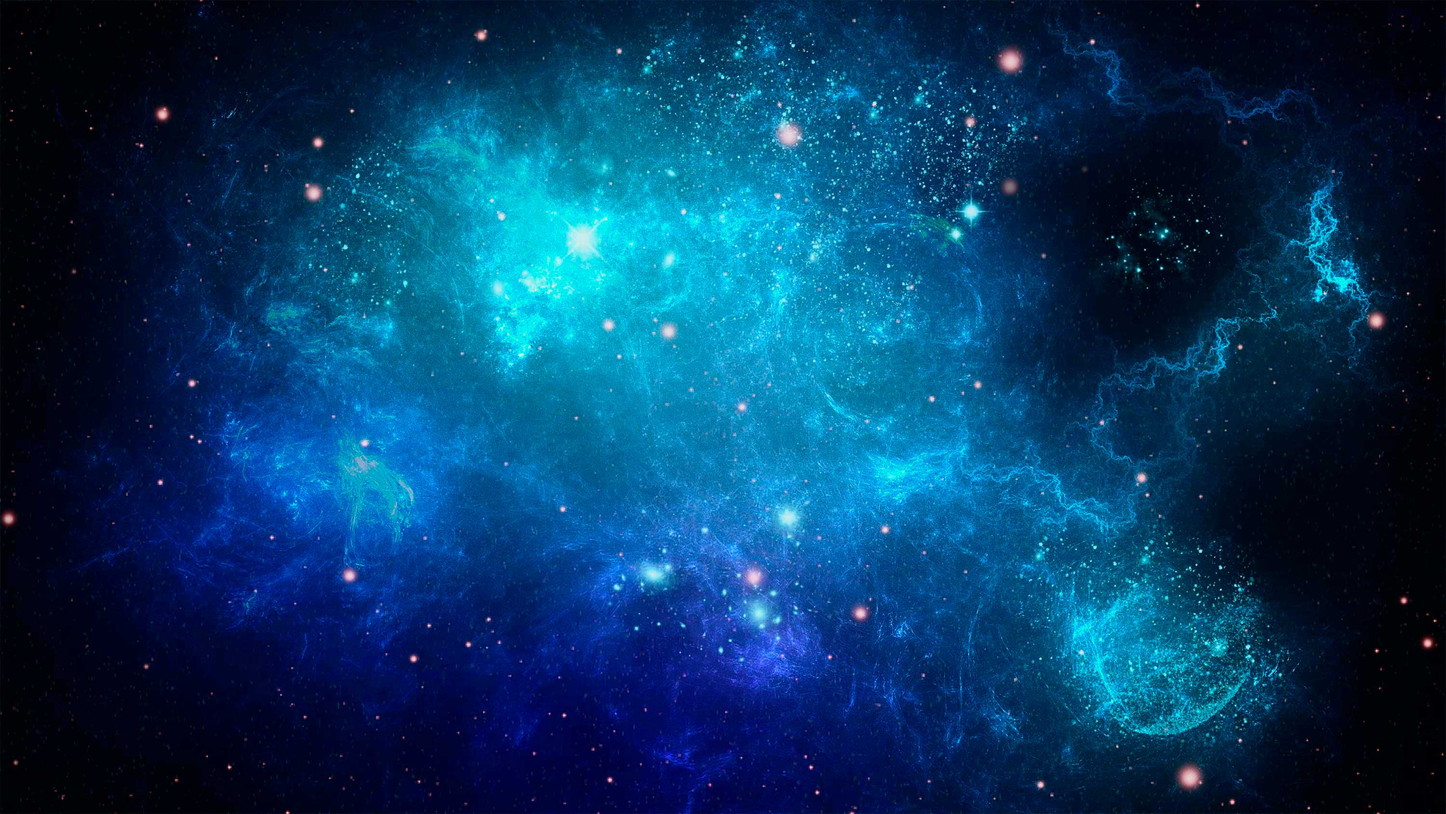
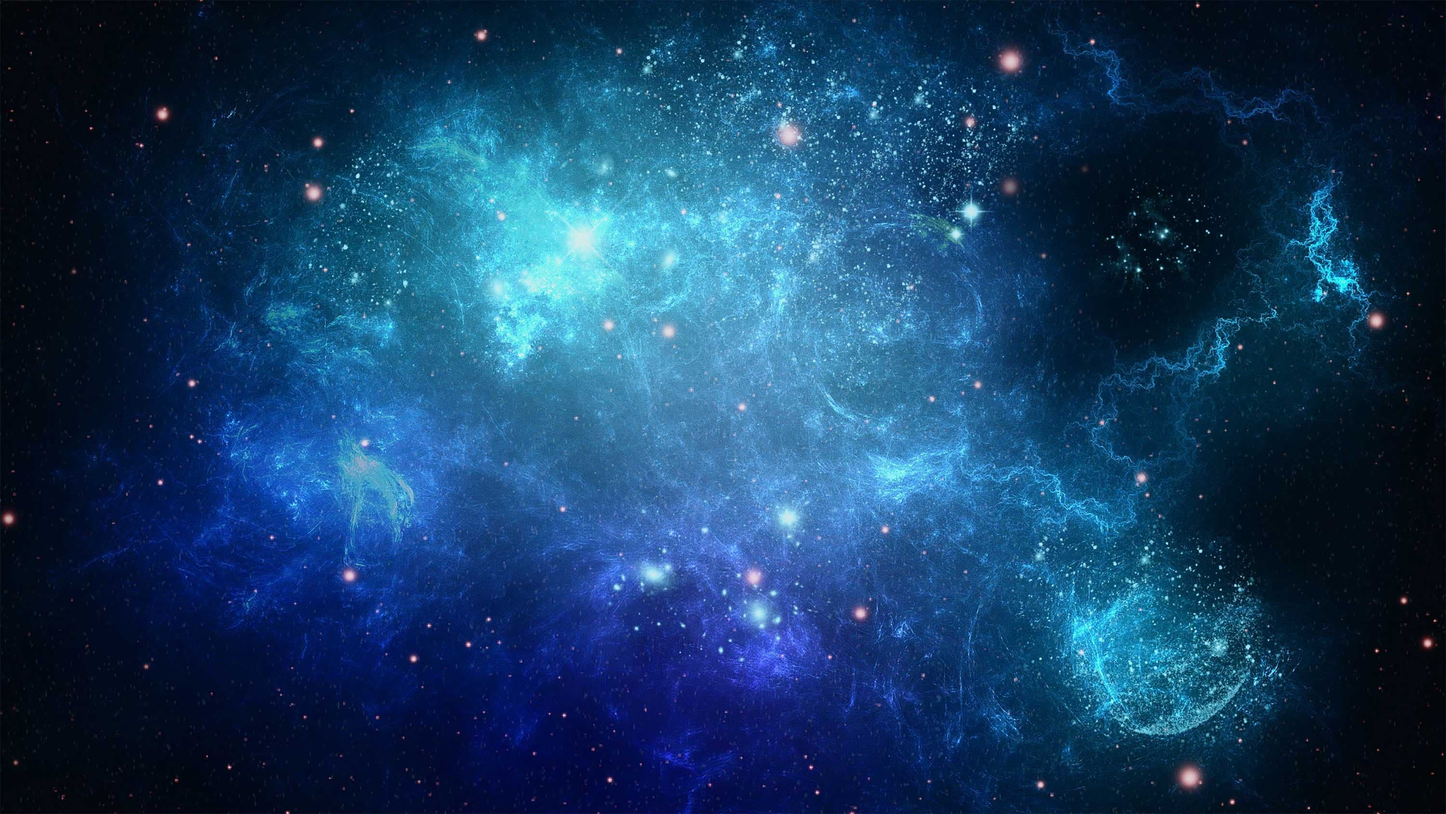
feat: conclui Desafio 12 - Projeto Cordel com efeito Parallax

diff --git a/desafios/d12/index.html b/desafios/d12/index.html
@@ -1,0 +1,97 @@
+<!DOCTYPE html>
+<html lang="pt-BR">
+<head>
+    <meta charset="UTF-8">
+    <meta name="viewport" content="width=device-width, initial-scale=1.0">
+    <title>Desafio 12</title>
+    <link rel="stylesheet" href="style.css">
+</head>
+    <body>
+        <header>
+            <h1>Cordel Moderno</h1>
+            <p>Por <a href="https://www.recantodasletras.com.br/poesias/3186743" target="_blank">Milton Duarte</a></p>
+        </header>
+
+    <section class="normal">
+        <p>
+            Estou ficando cansado <br>
+            Da tal tecnologia <br>
+            Só se fala por e-mail <br>
+            Mensagem curta e fria <br>
+            Twitter e Facebook <br>
+            Antes que eu  <br>
+            Vou dizer tudo em poesia.
+        </p>
+    </section>
+
+       <section class="imagem" id="img01">
+        <p>
+            Não é mais como era antes <br>
+            É tudo abreviado <br>
+            "Você" só tem duas letras <br>
+            O "O" e o "E" foi riscado <br>
+            Para declarar o amor <br>
+            Basta botar uma flor <br>
+            E um coração desenhado.
+        </p>
+    </section>
+   
+    <section class="normal">
+        <p>
+            Arroba agora não pesa <br>
+            É parte de um endereço <br>
+            Ponto final nem se usa <br>
+            Ou vai até no começo <br>
+            Agora é .com <br>
+            Se o saite é muito bom <br>
+            Ele vale um alto preço.
+        </p> 
+        <p>
+            Pra piorar a liguagem <br>
+            O emoticom é um risco <br>
+            Tem símbolo para tudo <br>
+            Ponto e vírgula e um asterisco <br>
+            Um beijo significa <br>
+            Pra entender como fica <br>
+            Decifre esse rabisco.
+        </p>
+    </section>
+    
+    <section class="imagem" id="img02">
+        <p>
+            Tenho saudade das cartas <br>
+            Escritas com a própria mão <br>
+            Mandava no mês de Junho <br>
+            Só chegava no Verão <br>
+            Mas matava a saudade <br>
+            Era texto de verdade <br>
+            Nas linhas do coração.
+        </p>
+    </section>
+   
+    <section class="normal">
+        <p>
+            Agora, escrevo e envio <br>
+            Chegando na mesma hora <br>
+            Mas quando vou prosear <br>
+            A pessoa foi embora <br>
+            Abriu outro aplicativo <br>
+            O mundo ficou cativo <br>
+            Da tecnologia do agora.
+        </p> 
+        <p>
+            Felizmente, pra orar <br>
+            Não precisa de internet <br>
+            Deus escuta todo mundo <br>
+            Se quiser, faça esse teste <br>
+            Dois pontos são dois joelhos <br>
+            Seus lábios são aparelhos <br>
+            Deixe que Deus interprete.
+        </p>
+    </section>
+    
+    <footer>
+        <p>Site criado por <a href="https://github.com/MihCarvalho82">Michelle Carvalho</a> pra o desafio 12 do <a href="https://www.cursoemvideo.com/">CursoemVídeo</a></p>
+    </footer>
+</body>
+</html>

diff --git a/desafios/d12/style.css b/desafios/d12/style.css
@@ -1,0 +1,106 @@
+@charset "UTF-8";
+/*Define a codificação de caracteres para o arquivo CSS*/
+
+@import url('https://fonts.googleapis.com/css2?family=Passion+One:wght@400;700;900&family=Sriracha&display=swap');
+/* Importa as fontes direto no CSS (Tirei do HTML e pus aqui) */
+
+:root {
+  --fonte1: verdana, geneva, sans-serif;
+  --fonte2: 'Passion One', cursive;
+  --fonte3: 'Sriracha', cursive;
+}
+
+/* RESET (Zera as bizarrices dos navegadores) */
+* {
+  margin: 0;
+  padding: 0;
+  box-sizing: border-box;
+}
+
+html body {
+  min-height: 100vh;
+  background-color: dimgray;
+  font-family: var(--fonte1);
+}
+
+header {
+  background-color: black;
+  color: white;
+  text-align: center;
+}
+
+header>h1 {
+  padding-top: 50px;
+  /*text-transform: uppercase; deixa o texto em caixa alta*/
+  font-variant: small-caps;
+  font-family: var(--fonte2);
+  font-size: 10vh;
+}
+
+header>p {
+  padding-bottom: 50px;
+}
+
+header a,
+footer a {
+  color: white;
+  text-decoration: none;
+  font-weight: bolder;
+}
+
+header a:hover,
+footer a:hover {
+  text-decoration: underline;
+}
+
+section {
+  padding-top: 10vh;
+  padding-bottom: 10vh;
+  padding-left: 30px;
+  line-height: 2em;
+  font-family: var(--fonte3);
+  font-size: 3.5vw;
+  background-size: cover;
+  background-attachment: fixed;
+}
+
+section>p {
+  padding: 2em;
+}
+
+section.normal {
+  background-color: white;
+  color: black;
+}
+
+section.imagem {
+  background-color: rgb(51, 51, 51);
+  color: white;
+  box-shadow: 1px 1px 0px black;
+}
+
+section.imagem > p {
+  display: inline-block;
+  padding: 5px;
+  background-color: rgba(0, 0, 0, 0.514);
+  text-shadow: 1px 1px 0px black;
+
+}
+
+section#img01 {
+  background-image: url('imagens/background001.jpg');
+  background-position: right center;
+
+}
+
+section#img02 {
+  background-image: url('imagens/background002.jpg');
+
+}
+
+footer {
+  background-color: black;
+  color: white;
+  text-align: center;
+  padding: 10px;
+}
